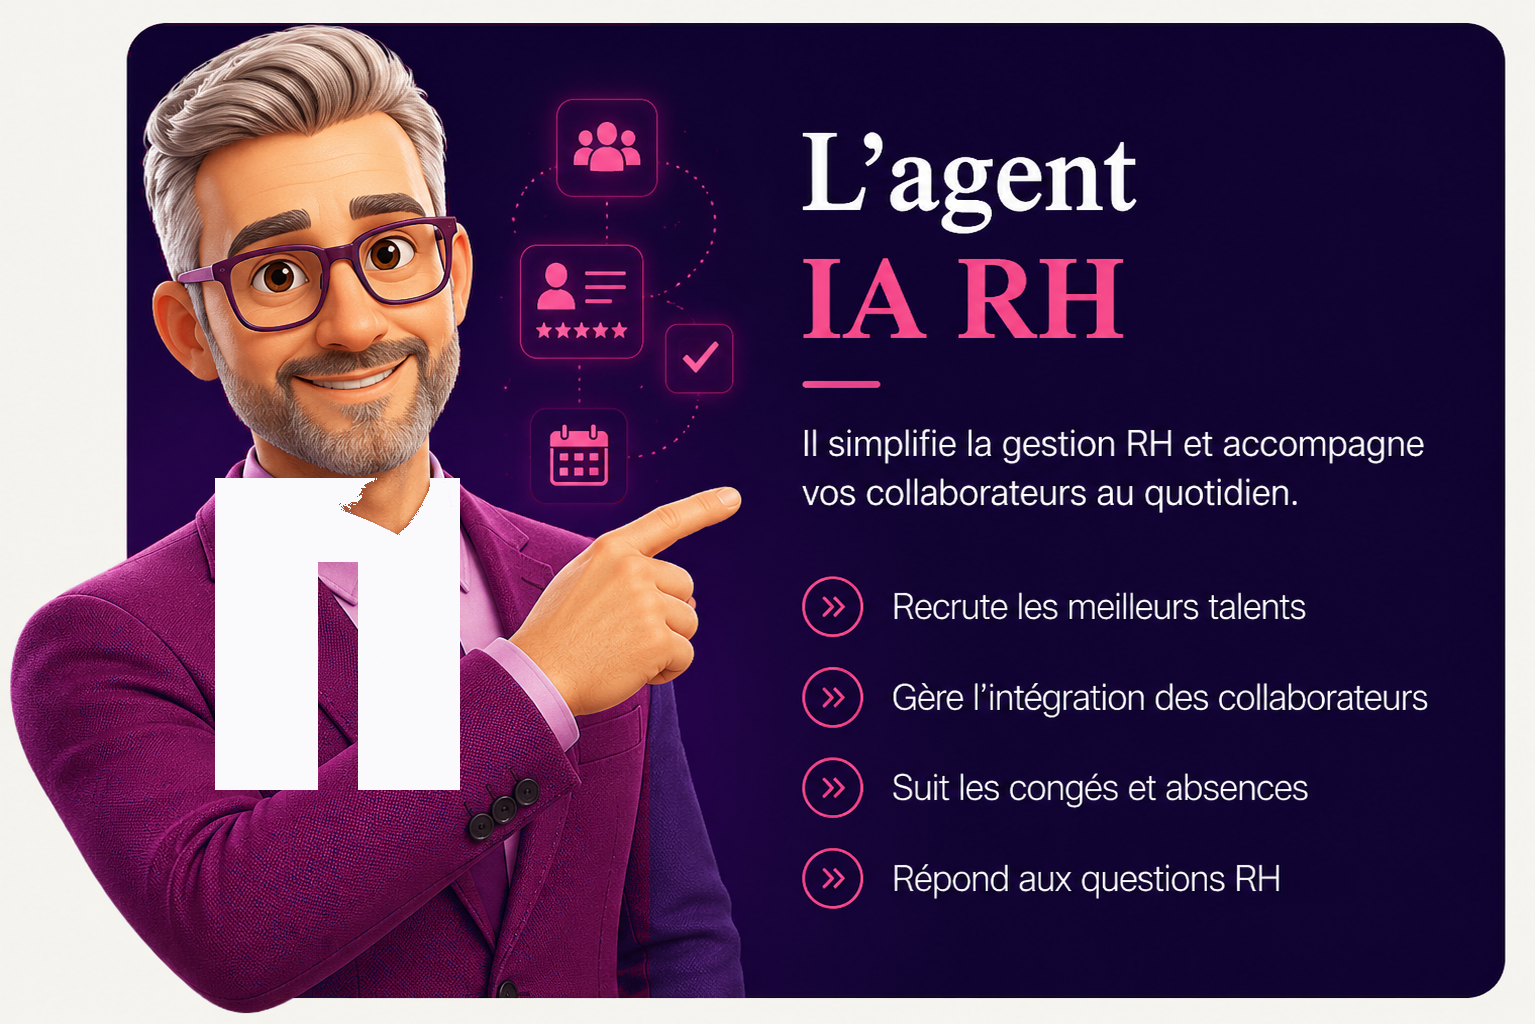
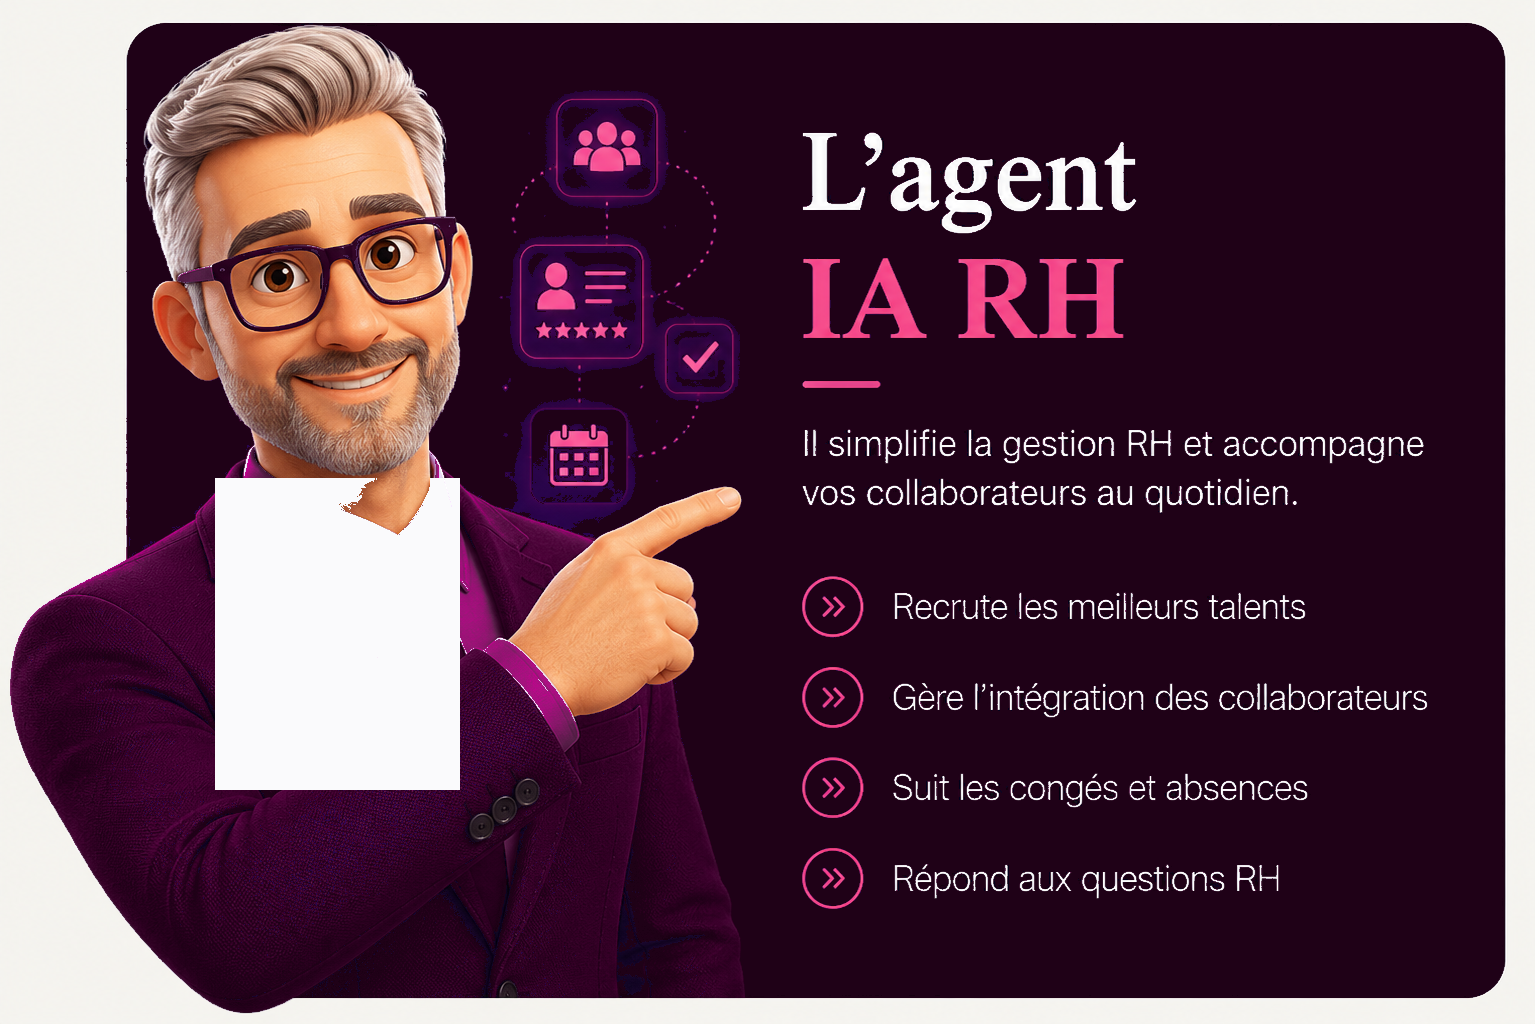
Multi-fix: RH prune+chemise blanche sans cravate; DEV debold+rose pâle; tablettes bleu ciel; textes langues+contact+drapeau US
- agents/rh.png v3: fond navy→prune, veste violet→prune, chemise blanche pleine (pas de cravate)
- approach-ecosystem.png v13: rose légèrement pâli, DEV allégé, tablette bleu ciel #8EC6E0
- approach-suivi.png v21: tablette bleu ciel #8EC6E0
- index.html: 🇺🇸 avant McKinsey·JPMorgan·WB; English Fluent; Español Fluido; Deutsch Bullats B1; contact Disponible supprimé; texte contact reformulé avec saut de ligne

diff --git a/index.html b/index.html
@@ -259,7 +259,7 @@
         <div class="xcard-num">02</div>
         <h3>Accompagnement de Directions Générales</h3>
         <p>Plus de 20 ans au contact direct de PDG, Conseils d'Administration et équipes dirigeantes dans des groupes internationaux de premier plan. Gestion d'agendas exigeants, anticipation des besoins, présence exécutive fiable. Intelligence émotionnelle au service du leadership.</p>
-        <span class="xcard-tag">20+ ans · McKinsey · J.P. Morgan · Warner Bros.</span>
+        <span class="xcard-tag">🇺🇸 20+ ans · McKinsey · J.P. Morgan · Warner Bros.</span>
       </div>
       <div class="xcard reveal delay-3">
         <div class="xcard-num">03</div>
@@ -422,7 +422,7 @@
       <!-- 06 · RH -->
       <div class="agent-card">
         <div class="agent-img">
-          <img src="assets/agents/rh.png?v=2" alt="Agent IA RH EXEC'IA">
+          <img src="assets/agents/rh.png?v=3" alt="Agent IA RH EXEC'IA">
         </div>
         <div class="agent-body">
           <p class="agent-eyebrow-txt">L'agent</p>
@@ -485,7 +485,7 @@
         <p>Conception et déploiement de solutions IA adaptées à vos métiers : support, RH, commercial ou organisation.</p>
         <p class="approach-objectif"><strong>Objectif :</strong> une intégration IA concrète et efficace.</p>
         <div class="approach-card-img approach-card-img--dev">
-          <img src="assets/approach-ecosystem.png?v=12" alt="Développement de votre écosystème IA EXEC'IA" loading="lazy">
+          <img src="assets/approach-ecosystem.png?v=13" alt="Développement de votre écosystème IA EXEC'IA" loading="lazy">
         </div>
       </div>
 
@@ -511,7 +511,7 @@
         <p>Présence continue à vos côtés, ajustements réguliers, réponses à vos questions et optimisation durable des résultats.</p>
         <p class="approach-objectif"><strong>Objectif :</strong> un suivi régulier pour des résultats durables.</p>
         <div class="approach-card-img approach-card-img--suivi">
-          <img src="assets/approach-suivi.png?v=20" alt="Suivi de l'intégration IA EXEC'IA" loading="lazy">
+          <img src="assets/approach-suivi.png?v=21" alt="Suivi de l'intégration IA EXEC'IA" loading="lazy">
         </div>
       </div>
 
@@ -682,17 +682,17 @@
         <div class="lang-row">
           <div class="lang-row-top"><span class="lang-name">English</span></div>
           <div class="lang-track"><div class="lang-bar" data-w="98%" style="width:0"></div></div>
-          <span class="lang-level">Cambridge Proficiency · Bilingue</span>
+          <span class="lang-level">Cambridge Proficiency · Fluent</span>
         </div>
         <div class="lang-row">
           <div class="lang-row-top"><span class="lang-name">Español</span></div>
           <div class="lang-track"><div class="lang-bar" data-w="98%" style="width:0"></div></div>
-          <span class="lang-level">Bilingue · 6 ans de pays hispanophones</span>
+          <span class="lang-level">Fluido · 6 ans de pays hispanophones</span>
         </div>
         <div class="lang-row">
           <div class="lang-row-top"><span class="lang-name">Deutsch</span></div>
           <div class="lang-track"><div class="lang-bar" data-w="55%" style="width:0"></div></div>
-          <span class="lang-level">Intermédiaire</span>
+          <span class="lang-level">Bullats B1</span>
         </div>
       </div>
     </div>
@@ -706,7 +706,7 @@
     <div class="contact-center">
       <span class="eyebrow reveal">Contact</span>
       <h2 class="section-title reveal delay-1">Travaillons<br>ensemble</h2>
-      <p class="contact-lead reveal delay-2"><strong>Commencez à créer de la valeur avec l'IA sans plus attendre</strong><br><br>Disponible pour des missions de conseil IA, formation et accompagnement à la transformation digitale.<br><br>30 minutes. Gratuit. Sans engagement.</p>
+      <p class="contact-lead reveal delay-2"><strong>Commencez à créer de la valeur avec l'IA sans plus attendre</strong><br><br>Missions de conseil IA, formation,<br>accompagnement à la transformation digitale.<br><br>30 minutes. Gratuit. Sans engagement.</p>
       <div class="contact-btns reveal delay-3">
         <a href="#" data-calendly class="btn btn-rose btn-lg">
           Réserver mon créneau découverte →